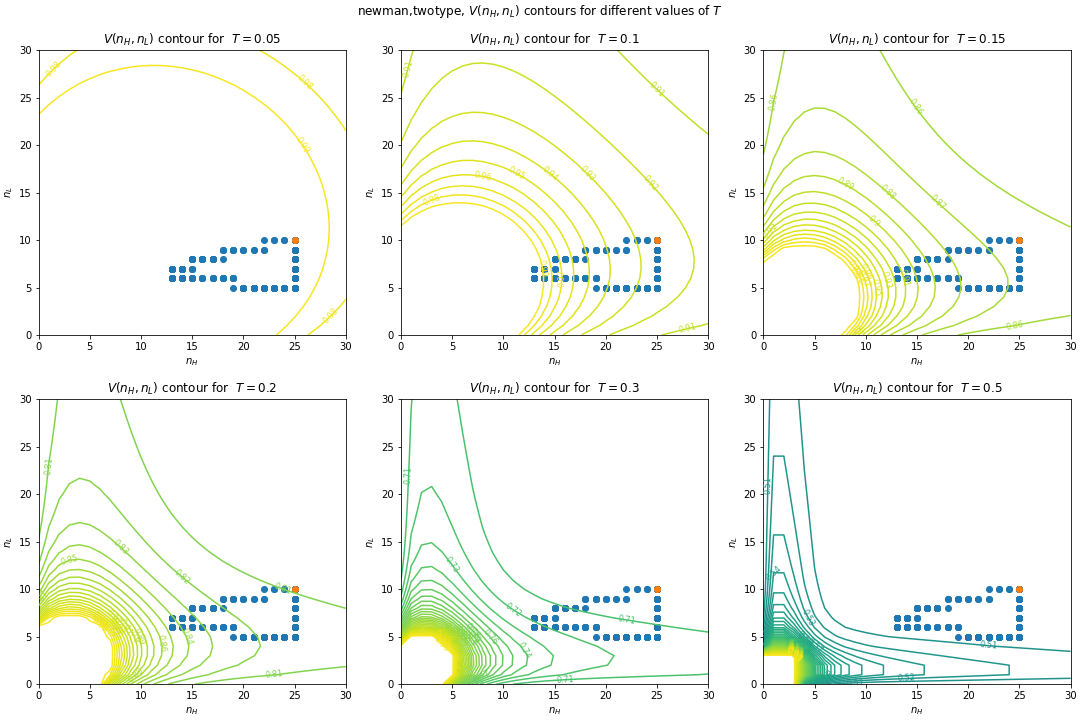
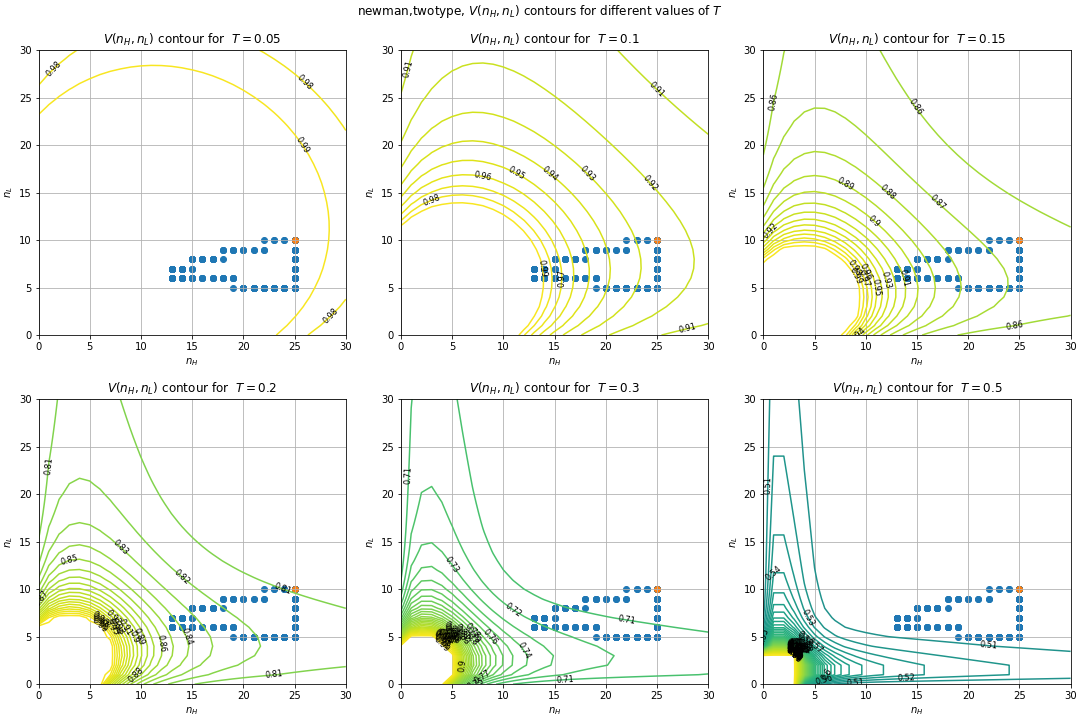
Plotted n(V(n)) for twotype case

diff --git a/contagion/graph_newman_twotypes.py b/contagion/graph_newman_twotypes.py
@@ -54,11 +54,12 @@ plt.savefig('graph_newman_twotype_n(V).svg')
 fig, ((ax0,ax1,ax2),(ax3,ax4,ax5)) = plt.subplots(2,3, 
                       figsize=(15,10),constrained_layout=True)
 
-def makesubplot_contour_V(ax,T,nH_grid,nL_grid,AH=0.3,AL=0.7):
+def makesubplot_contour_V(ax,T,nH_grid,nL_grid,AH=0.5,AL=0.5):
     VV = VV = [[nnt.approxV(T,nH,nL,AH=AH,AL=AL) for nH in nH_grid] for nL in nL_grid]
     CS = ax.contour(nH_grid,nL_grid,VV,CL_percentile,)
-    ax.clabel(CS,CS.levels,fmt='{:.2}'.format,inline=False,fontsize=8)
+    ax.clabel(CS,CS.levels,fmt='{:.2}'.format,inline=False,fontsize=8,colors='k')
     labelSubplot(ax, '$V(n_H,n_L)$ contour for  $T=$'+str(T), r'$n_H$', r'$n_L$')
+    ax.grid()
     
 makesubplot_contour_V(ax0, 0.05, n_grid, n_grid,)
 makesubplot_contour_V(ax1, 0.1, n_grid, n_grid,)
@@ -68,15 +69,70 @@ makesubplot_contour_V(ax4, 0.3, n_grid, n_grid,)
 makesubplot_contour_V(ax5, 0.5, n_grid, n_grid,)
 
 #plot the pairs of (n_H*,n_L*) as we trace through the value of V.
-'''nHstars = [nnt.findMyopicBest_n(1-Ψ,nnt.u_nlogtaper_H) for Ψ in Ψ_grid]
+nHstars = [nnt.findMyopicBest_n(1-Ψ,nnt.u_nlogtaper_H) for Ψ in Ψ_grid]
 nLstars = [nnt.findMyopicBest_n(1-Ψ,nnt.u_nlogtaper_L) for Ψ in Ψ_grid]
 for ax in [ax0,ax1,ax2,ax3,ax4,ax5]: ax.scatter(nHstars,nLstars)
-for ax in [ax0,ax1,ax2,ax3,ax4,ax5]: ax.scatter(nHstars[0],nLstars[0])'''
+for ax in [ax0,ax1,ax2,ax3,ax4,ax5]: ax.scatter(nHstars[0],nLstars[0])
 
+
+fig.suptitle('newman,twotype, $V(n_H,n_L)$ contours for different values of $T$')
+plt.savefig('graph_newman_twotype_Vcontours_nlogtaper.png')
 #fig.suptitle('newman,twotype, $V(n_H,n_L)$ contours for different values of $T$')
-#plt.savefig('graph_newman_twotype_Vcontours_nlogtaper.png')
-fig.suptitle('newman,twotype, $V(n_H,n_L)$ contours for different values of $T$, but $A_H=0.3$ and $A_L=0.7$')
-plt.savefig('graph_newman_twotype_Vcontours_populationtwist.png')
+#plt.savefig('graph_newman_twotype_Vcontours.png')
+#fig.suptitle('newman,twotype, $V(n_H,n_L)$ contours for different values of $T$, but $A_H=0.3$ and $A_L=0.7$')
+#plt.savefig('graph_newman_twotype_Vcontours_populationtwist.png')
 
 
 #%% Plot V(n(V)) to visualize equilibrium.
+# I'm going to experiment with using Ψ=1-V this time.
+
+def plot_ΨnΨ_iteration(utilfuncH,utilfuncL,speciallabel):
+    fig,ax = plt.subplots(figsize=(8,8),constrained_layout=True)
+    ax.plot(Ψ_grid,Ψ_grid,c='black',linestyle='dotted')
+    for T in [0.05,0.1,0.15,0.2,0.4,0.6,0.8]:
+        ax.scatter(Ψ_grid,[1-nnt.iterateV(1-Ψ,T,utilfuncH,utilfuncL,AH=0.5,AL=0.5) for Ψ in Ψ_grid],
+                   label='T='+str(T),marker='.')
+    ax.set_ylim([0,1])
+    ax.set_xlim([0,1])
+    ax.grid()
+    ax.legend()
+    labelSubplot(ax, 'newman,twotype,Ψ(n(Ψ)),'+speciallabel, '$\Psi$', '$\Psi(n_H^*,n_L^*)$')
+    plt.savefig('newman_twotype_PsinPsi_'+speciallabel+'.png')
+
+plot_ΨnΨ_iteration(nnt.u_nlogtaper_H,nnt.u_nlogtaper_L,'nlogtaper-φH=25-φL=10')
+
+
+#%% Plot n(V(n)) to visualize equilibrium.
+# I'm going to experiment with using Ψ=1-V this time.
+
+def plot_nVn_iteration(utilfuncH,utilfuncL,speciallabel,T):
+    #Two outputs. One for mapping nVn, the other for highlighting fixed points.
+    maxntoshow = 30
+    mappedpoints = []
+    equilibriapoints = []
+    for nH in range(maxntoshow+1):
+        for nL in range(maxntoshow+1):
+            nVn = nnt.iterate_npair(nH, nL, T, utilfuncH, utilfuncL)
+            mappedpoints.append(nVn)
+            if nVn == (nH,nL):
+                equilibriapoints.append(nVn)
+                
+    fig,ax = plt.subplots(figsize=(5,5),constrained_layout=True)
+    ax.scatter(*zip(*mappedpoints))
+    if equilibriapoints != []:
+        ax.scatter(*zip(*equilibriapoints))
+        
+    ax.set_ylim([0,30])
+    ax.set_xlim([0,30])
+    ax.grid()
+    labelSubplot(ax, 'newman,twotype,n(V(n)),'+speciallabel, '$n_H$', '$n_L$')
+    plt.savefig('newman_twotype_nVn_'+speciallabel+'.png')
+
+plot_nVn_iteration(nnt.u_nlogtaper_H,nnt.u_nlogtaper_L,'nlogtaper-φH=25-φL=10-T=.2',0.2)
+plot_nVn_iteration(nnt.u_nlogtaper_H,nnt.u_nlogtaper_L,'nlogtaper-φH=25-φL=10-T=.1',0.1)
+
+#Could I trun this into a gif maybe?
+
+
+
+

diff --git a/contagion/numsolve_newman_twotype.py b/contagion/numsolve_newman_twotype.py
@@ -168,17 +168,24 @@ def iterateV(V,T,utilfuncH,utilfuncL,AH=0.5,AL=0.5):
         print("multiple optima at V="+str(V)+",T="+str(T))
         
     newV = approxV(T, best_nH[0], best_nL[0], AH=AH, AL=AL)
+    if newV==V:
+        print("equilibrium at V="+str(V)+",T="+str(T))
+    
     return newV
         
         
         
         
+def iterate_npair(nH,nL,T,utilfuncH,utilfuncL,AH=0.5,AL=0.5):
+    V = approxV(T, nH, nL, AH=AH, AL=AL)
+    best_nH = findMyopicBest_n(V, utilfuncH)
+    best_nL = findMyopicBest_n(V, utilfuncL)
+    if len(best_nH) > 1 or len(best_nL) > 1:
+        print("multiple optima at V="+str(V)+",T="+str(T))
+        
+    return (best_nH[0],best_nL[0])
         
         
-        
-        
-        
-        
-        
+    
         
 

diff --git a/contagion/notes_newman_twotype.md b/contagion/notes_newman_twotype.md
@@ -131,6 +131,8 @@ A very high $$T$$ is unlikely. After all, there's a chance that you don't happen
 Let $$u_H(n) = \frac{1}{2}[\ln(n) - \frac{1}{1250} x^2]$$
 and let $$u_L(n) = \frac{1}{2}[\ln(n) - \frac{1}{200} x^2]$$.
 
+Additionally, let $$A_H=A_L=0.5$$.
+
 <!--second parameter 1/(2*X^2) where X is the optimum to be without risk-->
 
 These utility functions were chosen so that
@@ -146,11 +148,19 @@ These utility functions were chosen so that
 
 *The dots just plot the joint path of n as V varies from 0-1. Note that this is disconnected from the contours for V, which are the same as the above.*
 
+Each value of $$\Psi$$ gives a unique(?) pair of $$n_H^*,n_L^*$$,
+and these connection parameters in term induce a contagion network in which
+the danger from each connection is uniquely $$\Psi(n_H^*,n_L^*)$$ (or 0).
+This is an equilibrium if $$\Psi=\Psi(n_H^*,n_L^*)$$
 
+<table markdown='block'>
+<tr><td><img src="newman_twotype_PsinPsi_nlogtaper-φH=25-φL=10.png"></td>
+<td><img src="newman_twotype_nVn_nlogtaper-φH=25-φL=10-T=.2.png"></td></tr>
+</table>
 
+No equilibrium at $$T=0.1$$, however:
 
-
-
+![](newman_twotype_nVn_nlogtaper-φH=25-φL=10-T=.1.png)
 
 
 
